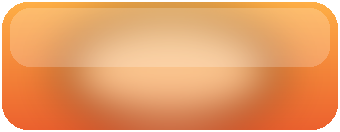
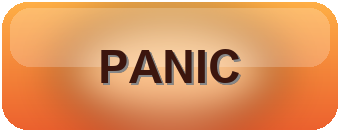
PANIC: reliable ~300 ms engine-driven armed flash
The trigger button showed no pressed state on MPC and a momentary toggle
raced MPC's own toggle gesture (stuck/variable). Render PANIC as a toggle
(with the red/amber button images, PANIC baked in) and drive a fixed ~300 ms
flash from the engine: a tap forces it on, arms a timer, and when it ends the
engine drops it off and reports the change via mpc_engine_changed so the host
turns the on-screen toggle back off. A double-tap just re-arms, never sticks.
Each tap still flushes the tails (debounced).

Changed region(s): [[0.2941, 0.3636, 0.7059, 0.6667]]

diff --git a/src/engine.cpp b/src/engine.cpp
@@ -297,6 +297,7 @@ struct DubStation
 
     float    duck_env_;
     int      flush_pending_, flush_cooldown_; // PANIC: deferred to the audio thread + debounced (see ApplyFx)
+    int      panic_flash_frames_, panic_changed_; // PANIC: engine-driven ~300 ms "armed" flash on the toggle (see mpc_engine_changed)
     float    fb_lp_l_, fb_lp_r_;   // one-pole LP in the feedback path (tape-style band-limit, tames aliasing)
     float    fb_lp2_l_, fb_lp2_r_; // Delay B feedback band-limit LP
     uint32_t rng_;
@@ -486,6 +487,8 @@ struct DubStation
         duck_env_  = 0.f;
         flush_pending_ = 0;
         flush_cooldown_ = 0;
+        panic_flash_frames_ = 0;
+        panic_changed_ = 0;
         fb_lp_l_ = fb_lp_r_ = 0.f;
         fb_lp2_l_ = fb_lp2_r_ = 0.f;
         rng_       = 2463534242u;
@@ -550,6 +553,14 @@ struct DubStation
             Flush();
             flush_pending_  = 0;
             flush_cooldown_ = (int)(0.5f * kSampleRate);
+        }
+        // PANIC flash: count the ~400 ms down and, when it ends, drop the toggle back off and flag it so
+        // mpc_engine_changed reports the off to the host (the screen toggle follows).
+        if(panic_flash_frames_ > 0 && (panic_flash_frames_ -= (int)size) <= 0)
+        {
+            panic_flash_frames_ = 0;
+            p[P_PANIC]          = 0.f;
+            panic_changed_      = 1;
         }
 
         float dryl[128], dryr[128], coll[128], colr[128];
@@ -822,7 +833,15 @@ void dc_set_param(void *inst, const char *key, const char *val)
         return;
     SetValue(t, i, (float)atof(val));
     if(i == P_PANIC)   // any tap of the Panic toggle requests a flush; the audio thread does it (debounced)
-        t->flush_pending_ = 1;
+    {
+        // Force the toggle "on" and drive a fixed ~400 ms flash from the engine (mpc_engine_changed reports it
+        // back off), so a tap always blinks for the same time regardless of hold or a double-tap, instead of
+        // latching or racing MPC's own toggle gesture.
+        t->p[P_PANIC]        = 1.f;
+        t->panic_flash_frames_ = (int)(0.3f * kSampleRate);
+        t->panic_changed_    = 1;   // tell the host it's on now
+        t->flush_pending_    = 1;
+    }
     t->Apply();
 }
 
@@ -934,4 +953,19 @@ const mpc_engine_t kEngine = {dc_create, dc_destroy, dc_midi, dc_set_param, dc_g
 extern "C" const mpc_engine_t *mpc_engine(void)
 {
     return &kEngine;
+}
+
+// The wrapper polls this for parameters the engine moved by itself. We use it only for the PANIC flash:
+// the tap sets the toggle on and arms a timer; when it ends ApplyFx drops it back off and flags it here, so
+// the host turns the on-screen toggle back off on its own (one flagged key per call, 0 when nothing changed).
+extern "C" int mpc_engine_changed(void *inst, char *key, int len)
+{
+    DubStation *t = (DubStation *)inst;
+    if(t->panic_changed_)
+    {
+        t->panic_changed_ = 0;
+        snprintf(key, (size_t)len, "panic");
+        return 1;
+    }
+    return 0;
 }
